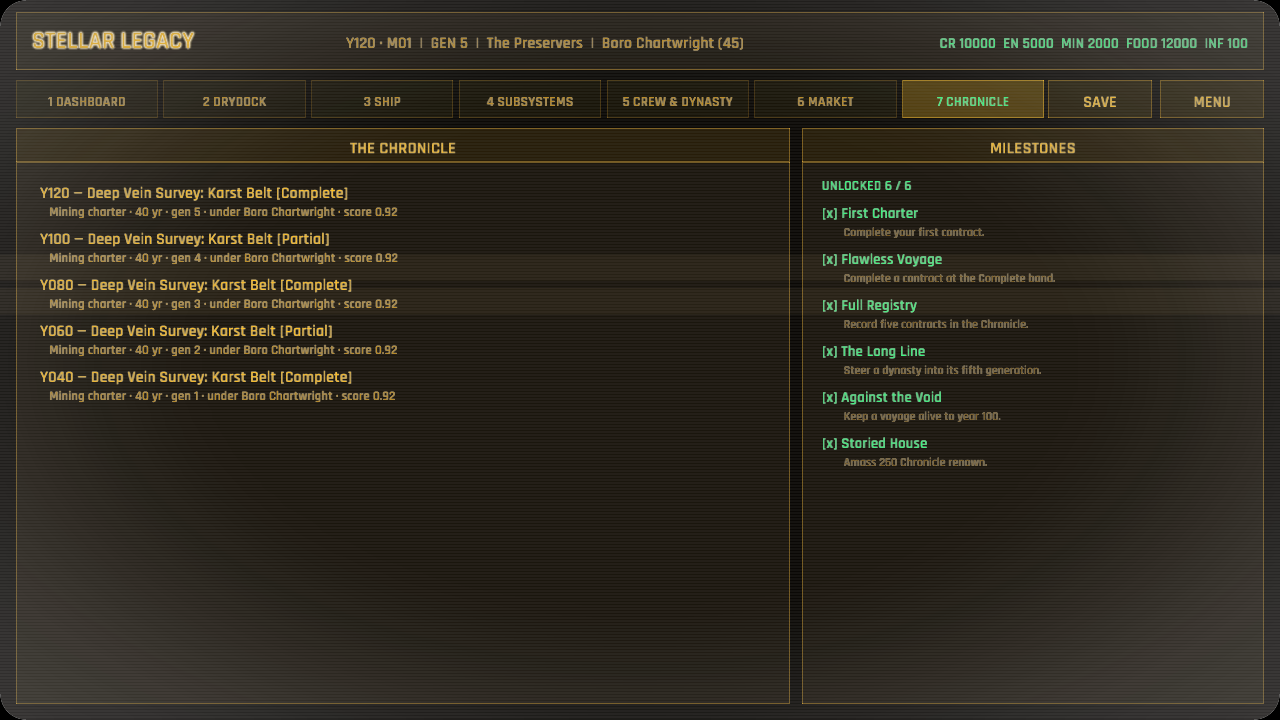
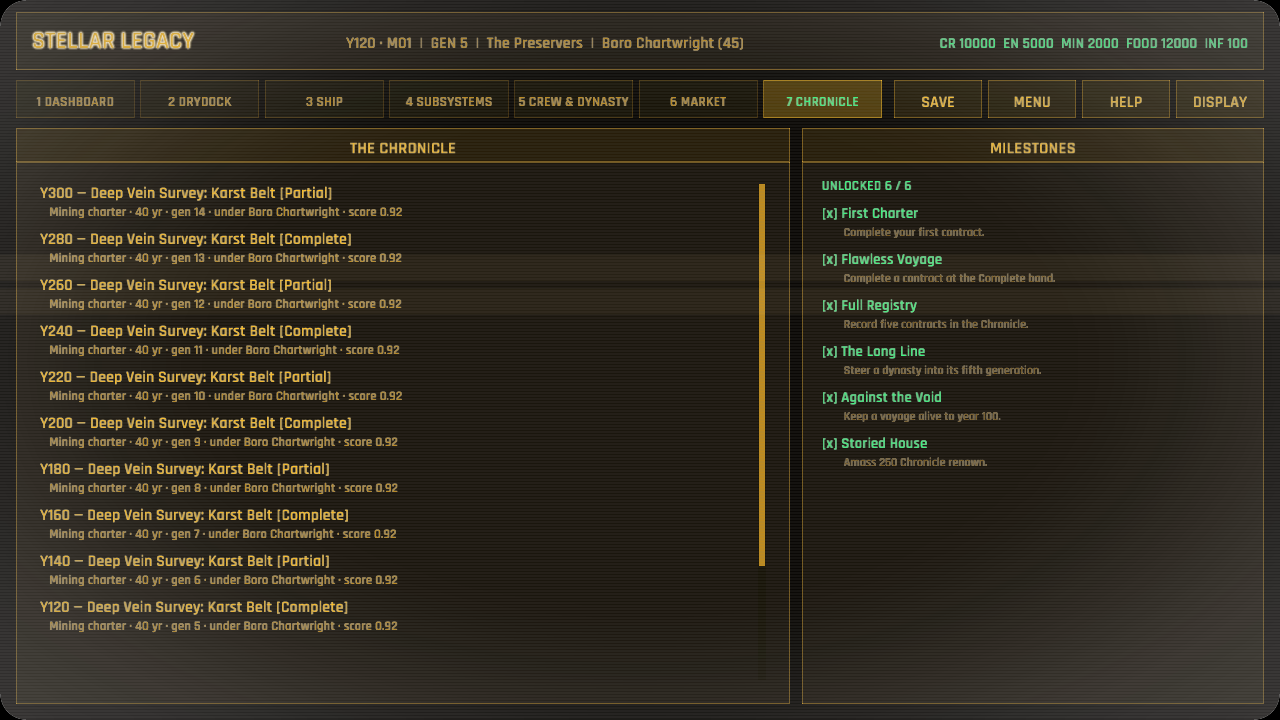
Two ledgers stop deciding what fits and start letting it be read
Before: both lists answered "too many to show" by showing fewer. The
DYNASTY ROSTER drew whatever its panel height allowed - two of five - and
admitted the rest with "... and 3 more", which named the people it was
hiding without letting anyone read them, and hid the very rows an heir is
chosen from. THE CHRONICLE took its newest nine and dropped the rest
silently, which for a record whose whole purpose is to be the long memory
across playthroughs is the one thing it must not do.

After: both scroll. Same pattern as the charter board and the ship
catalogs - a ScrollArea per region, rows laid out from a row_top rather
than a running baseline, partly-scrolled rows culled with
is_fully_visible since macroquad has no scissor rect, and a scrollbar in a
reserved gutter so no row sits under it. The roster suppresses the press
while a drag is under way, so pulling the list past a candidate does not
name them heir; the Chronicle has no controls to protect.

This is what the drag-scroll work bought. These two were never wheel
problems - they were truncations, equally wrong under a mouse - but they
were only worth fixing once a list could be pulled by hand, because
otherwise the rows below the fold stayed just as unreachable on a tablet.

The chronicle capture scene now seeds fourteen entries instead of five, so
the screenshot shows the state the scroll exists for rather than a short
list that never reaches it.
[…]

diff --git a/src/ui/crew_dynasty.rs b/src/ui/crew_dynasty.rs
@@ -7,7 +7,7 @@ use crate::simulation::legacy::failure_risk;
 use crate::ui::{stat_line, term, term_button, term_panel, GameplayCtx, UiAction};
 use macroquad::prelude::*;
 use macroquad_toolkit::prelude::*;
-use macroquad_toolkit::ui::{draw_ui_text_ex, RectExt};
+use macroquad_toolkit::ui::{draw_ui_text_ex, is_fully_visible, RectExt};
 
 /// Height of one SHIP POSTS row, and so of its TRAIN/RECRUIT target.
 ///
@@ -129,17 +129,56 @@ fn draw_factions(ctx: &GameplayCtx<'_>, rect: Rect, pointer: Pointer, actions: &
     }
 }
 
+/// Vertical stride of one roster row.
+const ROSTER_STRIDE: f32 = 38.0;
+/// How much of that stride the row actually occupies: the NAME HEIR button, the
+/// name line and the trait line beneath it. Used to cull a row that would hang
+/// over the panel edge, so it has to cover the descenders of the lower line —
+/// the 2px it leaves the stride is only there to keep neighbouring rows from
+/// touching.
+const ROSTER_ROW_H: f32 = 36.0;
+/// Reserved at the panel's right edge for the scrollbar, so no row sits under it.
+const ROSTER_GUTTER: f32 = 12.0;
+
 fn draw_roster(ctx: &GameplayCtx<'_>, rect: Rect, pointer: Pointer, actions: &mut Vec<UiAction>) {
     term_panel(rect, Some("DYNASTY ROSTER"));
     let content = rect.inset(18.0);
-    let mut y = content.y + 42.0;
 
     let config = &ctx.data.config;
     let mut members: Vec<_> = ctx.sim.dynasty.members.iter().collect();
     members.sort_by(|a, b| b.is_leader.cmp(&a.is_leader).then(b.age.cmp(&a.age)));
 
-    let visible = ((content.h - 42.0) / 38.0).floor() as usize;
-    for member in members.iter().take(visible) {
+    // The roster used to draw whatever fitted and admit to the rest with
+    // "... and 3 more" — which named the people it was hiding without letting
+    // anyone read them, and hid the very rows a heir is chosen from. It scrolls
+    // now, so the panel's height stops deciding who is in the dynasty.
+    let view = Rect::new(
+        content.x,
+        content.y + 26.0,
+        content.w,
+        content.bottom() - (content.y + 26.0),
+    );
+    let row_w = view.w - ROSTER_GUTTER;
+    let content_h = members.len() as f32 * ROSTER_STRIDE;
+    let mut scroll = ctx.roster_scroll.get();
+    scroll.update_at(view, content_h, pointer.position);
+    // A drag down the roster must not also name an heir on the way past.
+    let pointer = if scroll.absorbs_press() {
+        pointer.suppressed()
+    } else {
+        pointer
+    };
+
+    let mut row_top = view.y - scroll.offset();
+    for member in members.iter() {
+        let row = Rect::new(view.x, row_top, row_w, ROSTER_ROW_H);
+        row_top += ROSTER_STRIDE;
+        // macroquad has no scissor rect, so cull the partly-scrolled rows
+        // rather than letting them spill past the panel.
+        if !is_fully_visible(row, view) {
+            continue;
+        }
+        let y = row.y + 16.0;
         let heir_eligible = member.age >= config.heir_min_age && member.age <= config.heir_max_age;
         let designated = ctx.sim.dynasty.designated_heir == Some(member.id);
         let color = if member.is_leader {
@@ -175,7 +214,7 @@ fn draw_roster(ctx: &GameplayCtx<'_>, rect: Rect, pointer: Pointer, actions: &mu
             && !member.is_leader
             && !designated
             && term_button(
-                Rect::new(content.right() - 96.0, y - 16.0, 90.0, 30.0),
+                Rect::new(row.right() - 90.0, row.y, 90.0, 30.0),
                 "NAME HEIR",
                 true,
                 pointer,
@@ -183,17 +222,16 @@ fn draw_roster(ctx: &GameplayCtx<'_>, rect: Rect, pointer: Pointer, actions: &mu
         {
             actions.push(UiAction::SelectHeir(member.id));
         }
-        y += 38.0;
     }
 
-    if ctx.sim.dynasty.members.len() > visible {
-        draw_ui_text_ex(
-            &format!("... and {} more", ctx.sim.dynasty.members.len() - visible),
-            content.x,
-            y,
-            TextStyle::new(13.0, term::faint()).params(),
-        );
-    }
+    scroll.draw_scrollbar_with(
+        view,
+        content_h,
+        term::surface_inset(),
+        term::dim(),
+        term::primary(),
+    );
+    ctx.roster_scroll.set(scroll);
 }
 
 fn draw_posts(ctx: &GameplayCtx<'_>, rect: Rect, pointer: Pointer, actions: &mut Vec<UiAction>) {

diff --git a/src/ui/chronicle.rs b/src/ui/chronicle.rs
@@ -4,19 +4,25 @@
 use crate::ui::{term, term_panel, GameplayCtx, UiAction};
 use macroquad::prelude::*;
 use macroquad_toolkit::prelude::*;
-use macroquad_toolkit::ui::{draw_ui_text_ex, RectExt};
+use macroquad_toolkit::ui::{draw_ui_text_ex, is_fully_visible, RectExt};
 
-pub fn draw(ctx: &GameplayCtx<'_>, area: Rect, _pointer: Pointer, _actions: &mut Vec<UiAction>) {
+/// Vertical stride of one Chronicle entry, and the height of the entry itself.
+const ENTRY_STRIDE: f32 = 46.0;
+const ENTRY_H: f32 = 40.0;
+/// Reserved at the panel's right edge for the scrollbar.
+const GUTTER: f32 = 12.0;
+
+pub fn draw(ctx: &GameplayCtx<'_>, area: Rect, pointer: Pointer, _actions: &mut Vec<UiAction>) {
     let left = Rect::new(area.x, area.y, area.w * 0.62, area.h);
     let right = Rect::new(left.right() + 12.0, area.y, area.w - left.w - 12.0, area.h);
-    draw_log(ctx, left);
+    draw_log(ctx, left, pointer);
     draw_milestones(ctx, right);
 }
 
-fn draw_log(ctx: &GameplayCtx<'_>, area: Rect) {
+fn draw_log(ctx: &GameplayCtx<'_>, area: Rect, pointer: Pointer) {
     term_panel(area, Some("THE CHRONICLE"));
     let content = area.inset(24.0);
-    let mut y = content.y + 46.0;
+    let y = content.y + 46.0;
 
     if ctx.chronicle.entries.is_empty() {
         draw_text_block(
@@ -32,14 +38,36 @@ fn draw_log(ctx: &GameplayCtx<'_>, area: Rect) {
         return;
     }
 
-    for entry in ctx.chronicle.entries.iter().rev().take(9) {
+    // The Chronicle outlives any single save, so it only ever grows — and it
+    // used to show its newest nine and drop the rest without saying so, which
+    // for a record whose whole purpose is to be the long memory is the one
+    // thing it must not do. It scrolls now, oldest still reachable.
+    let view = Rect::new(
+        content.x,
+        y - 14.0,
+        content.w,
+        content.bottom() - (y - 14.0),
+    );
+    let content_h = ctx.chronicle.entries.len() as f32 * ENTRY_STRIDE;
+    let mut scroll = ctx.chronicle_scroll.get();
+    scroll.update_at(view, content_h, pointer.position);
+
+    let mut row_top = view.y - scroll.offset();
+    for entry in ctx.chronicle.entries.iter().rev() {
+        let row = Rect::new(view.x, row_top, view.w - GUTTER, ENTRY_H);
+        row_top += ENTRY_STRIDE;
+        // macroquad has no scissor rect, so cull the partly-scrolled entries
+        // rather than letting them spill past the panel.
+        if !is_fully_visible(row, view) {
+            continue;
+        }
         draw_ui_text_ex(
             &format!(
                 "Y{:03} — {} [{}]",
                 entry.completed_year, entry.contract_name, entry.outcome
             ),
-            content.x,
-            y,
+            row.x,
+            row.y + 14.0,
             TextStyle::new(16.0, term::primary()).params(),
         );
         draw_ui_text_ex(
@@ -51,12 +79,20 @@ fn draw_log(ctx: &GameplayCtx<'_>, area: Rect) {
                 entry.leader_name,
                 entry.score
             ),
-            content.x,
-            y + 18.0,
+            row.x,
+            row.y + 32.0,
             TextStyle::new(13.0, term::dim()).params(),
         );
-        y += 46.0;
     }
+
+    scroll.draw_scrollbar_with(
+        view,
+        content_h,
+        term::surface_inset(),
+        term::dim(),
+        term::primary(),
+    );
+    ctx.chronicle_scroll.set(scroll);
 }
 
 fn draw_milestones(ctx: &GameplayCtx<'_>, area: Rect) {

diff --git a/src/game.rs b/src/game.rs
@@ -126,6 +126,13 @@ pub struct Game {
     /// (Hull/Engine/Weapon), which overflow once a mission-reward part joins a
     /// full column. One `ScrollArea` per column.
     ship_scroll: Cell<[ScrollArea; 3]>,
+    /// Smooth-scroll state for the CREW dynasty roster. The list used to be
+    /// truncated to whatever fitted the panel, so a dynasty of five showed two
+    /// and told you about the rest.
+    roster_scroll: Cell<ScrollArea>,
+    /// Smooth-scroll state for the CHRONICLE log, which grows across
+    /// playthroughs and long ago outgrew the nine entries it used to show.
+    chronicle_scroll: Cell<ScrollArea>,
     /// SHIP builder sub-tab: `false` = LOADOUT (hull/engine/weapon catalog),
     /// `true` = MODULES (the six subsystems' named version ladders). Pure view
     /// state, flipped by the on-screen toggle.
@@ -204,6 +211,8 @@ impl Game {
             decision_started: 0.0,
             charter_scroll: Cell::new(ScrollArea::new()),
             ship_scroll: Cell::new([ScrollArea::new(); 3]),
+            roster_scroll: Cell::new(ScrollArea::new()),
+            chronicle_scroll: Cell::new(ScrollArea::new()),
             ship_modules_tab: Cell::new(false),
         }
     }
@@ -461,6 +470,8 @@ impl Game {
                     decision_remaining: self.decision_remaining(&gameplay.sim),
                     charter_scroll: &self.charter_scroll,
                     ship_scroll: &self.ship_scroll,
+                    roster_scroll: &self.roster_scroll,
+                    chronicle_scroll: &self.chronicle_scroll,
                     ship_modules_tab: &self.ship_modules_tab,
                 }),
             }

diff --git a/src/ui/shell.rs b/src/ui/shell.rs
@@ -35,6 +35,12 @@ pub struct GameplayCtx<'a> {
     /// column that overflows (e.g. a mission-reward part added to a full one)
     /// stays reachable. Indexed Hull / Engine / Weapon.
     pub ship_scroll: &'a std::cell::Cell<[macroquad_toolkit::ui::ScrollArea; 3]>,
+    /// Smooth-scroll state for the CREW dynasty roster, so a dynasty larger than
+    /// the panel can be read rather than counted.
+    pub roster_scroll: &'a std::cell::Cell<macroquad_toolkit::ui::ScrollArea>,
+    /// Smooth-scroll state for the CHRONICLE log, which accumulates across
+    /// playthroughs and outlives any single save.
+    pub chronicle_scroll: &'a std::cell::Cell<macroquad_toolkit::ui::ScrollArea>,
     /// SHIP builder sub-tab: `false` = LOADOUT catalog, `true` = MODULES (named
     /// subsystem version ladders). Pure view state, flipped by the on-screen toggle.
     pub ship_modules_tab: &'a std::cell::Cell<bool>,

diff --git a/src/game/capture_scenes.rs b/src/game/capture_scenes.rs
@@ -338,7 +338,10 @@ impl Game {
                 );
                 sim.dynasty.generation = 5;
                 sim.month_clock = 120 * 12;
-                for i in 0..5 {
+                // More entries than the panel can hold, so the capture shows the
+                // state the log's scroll exists for rather than a short list that
+                // never reaches it.
+                for i in 0..14 {
                     self.chronicle.record(crate::chronicle::ChronicleEntry {
                         completed_year: 40 + i * 20,
                         contract_name: "Deep Vein Survey: Karst Belt".to_owned(),
